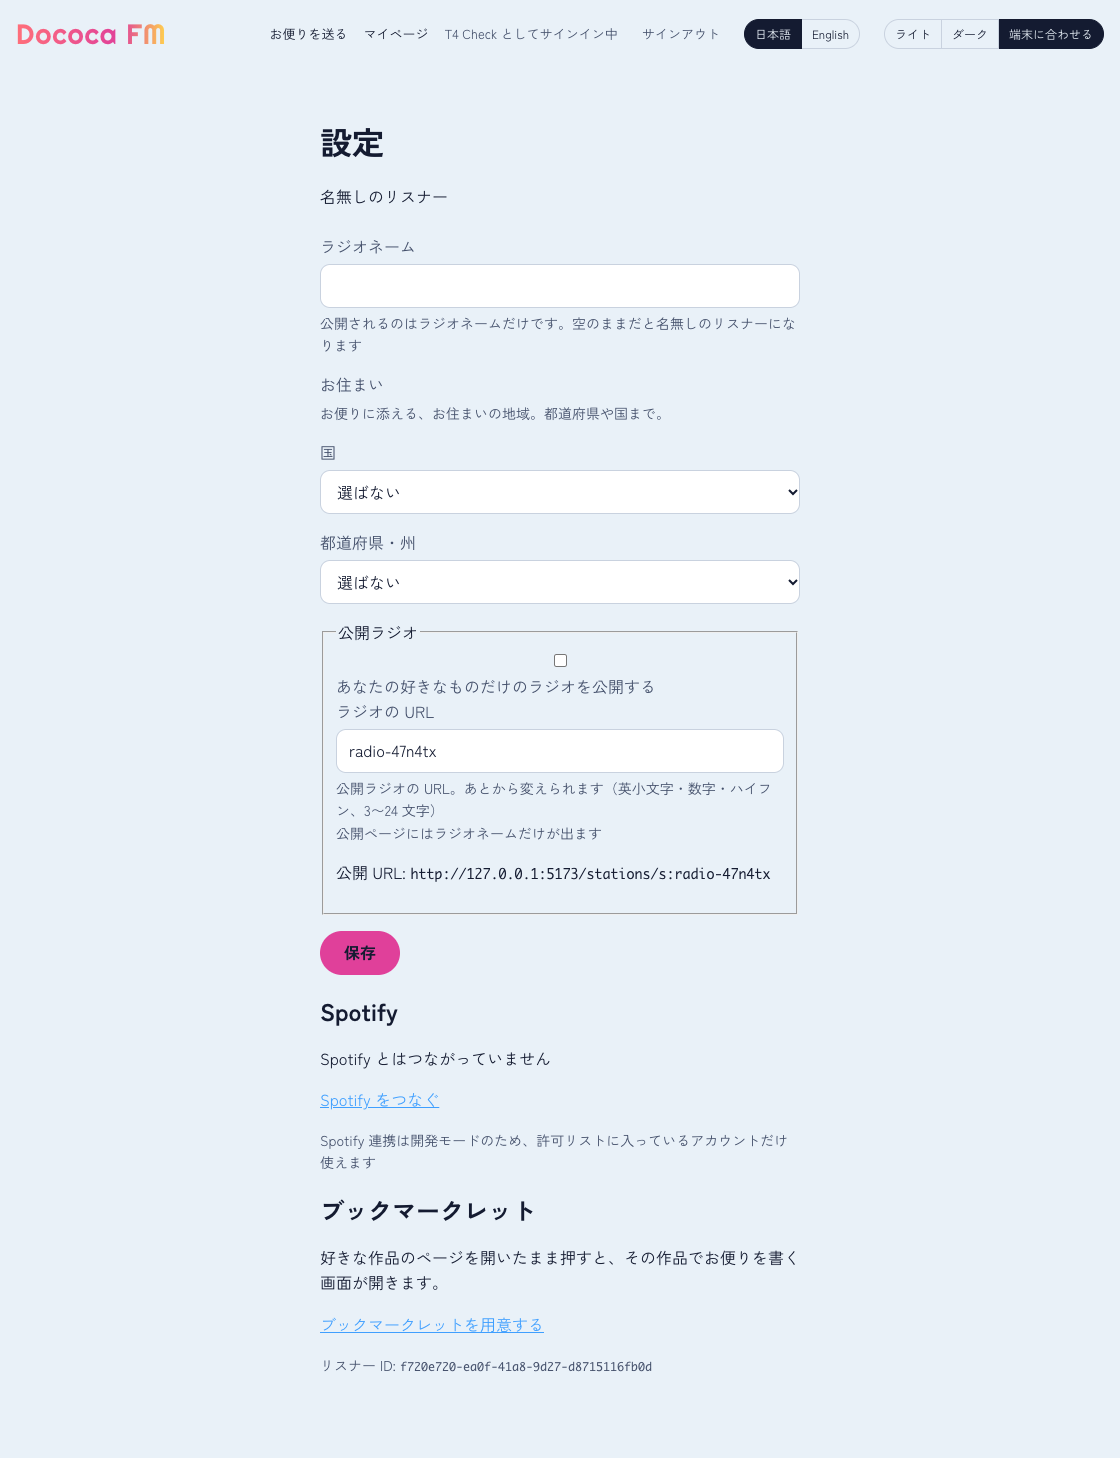
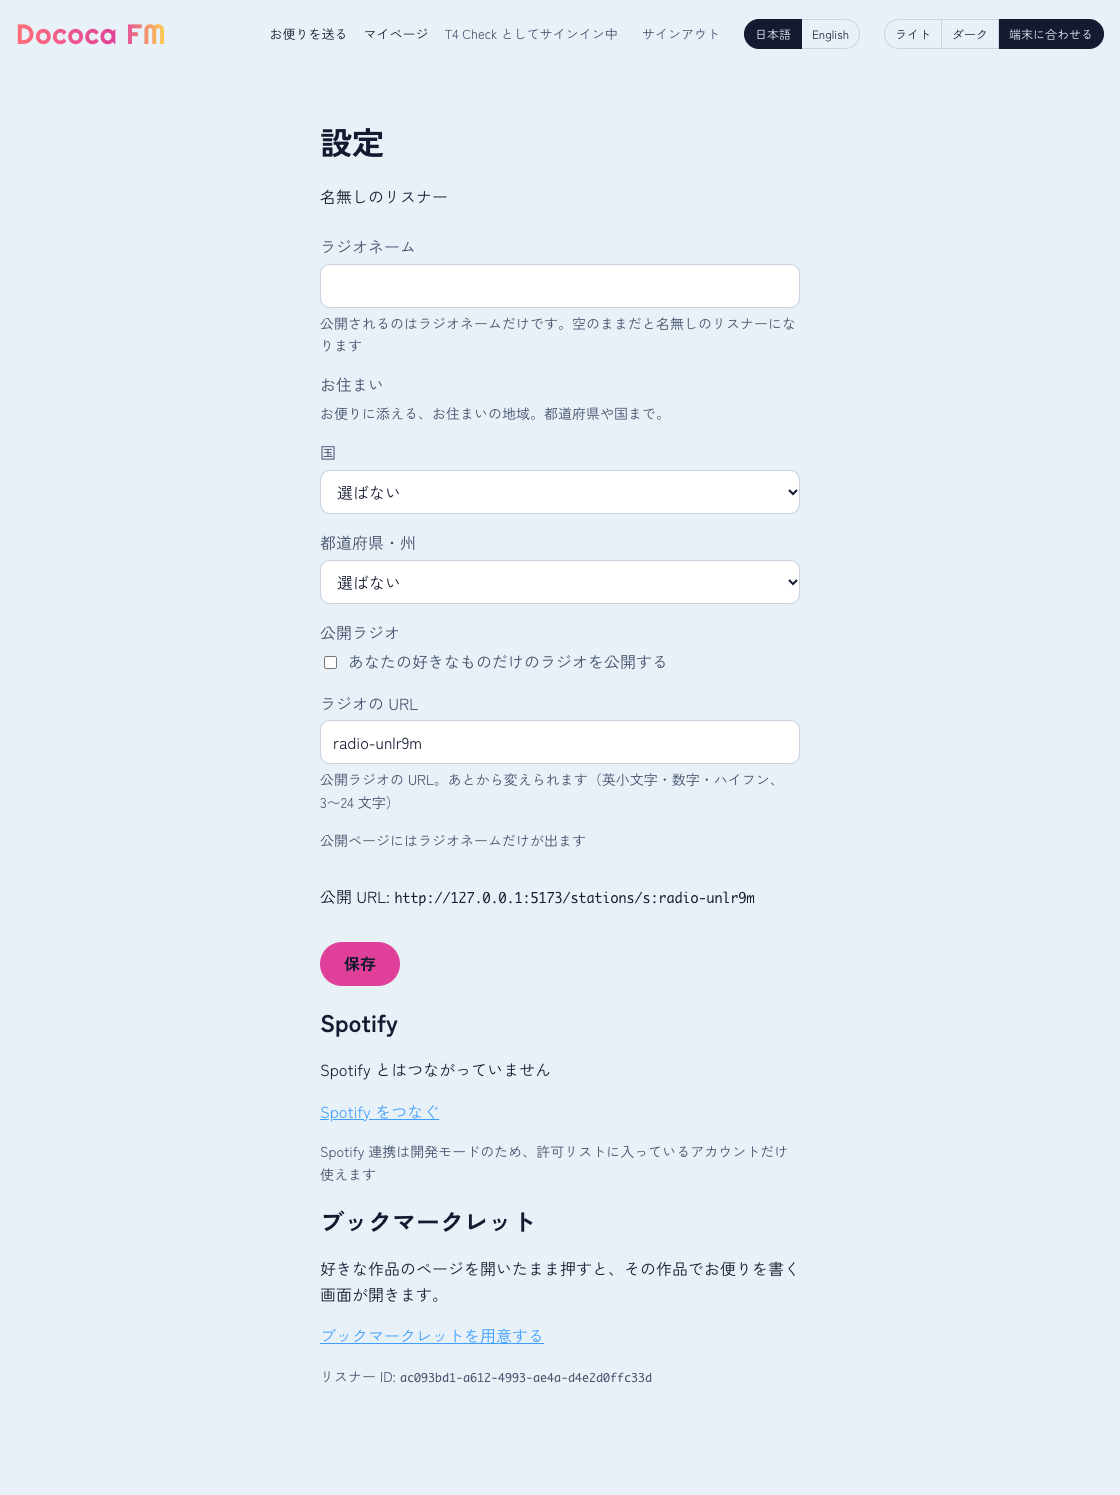
fix: settings survive a slug failure and fit the phone

diff --git a/test/worker/routes/settings.test.ts b/test/worker/routes/settings.test.ts
@@ -1,6 +1,7 @@
 import { SELF } from "cloudflare:test";
 import { env } from "cloudflare:workers";
-import { beforeEach, describe, expect, it } from "vitest";
+import { beforeEach, describe, expect, it, vi } from "vitest";
+import * as listeners from "../../../src/worker/db/listeners";
 import { resetDb } from "../../helpers/db";
 import { get, signedInSession } from "./helpers";
 
@@ -97,7 +98,7 @@ describe("settings", () => {
     const cookie = cookieOf(await SELF.fetch(`${BASE}/settings`, { headers: { "accept-language": "ja" } }));
     const html = await (await SELF.fetch(`${BASE}/settings`, { headers: { cookie } })).text();
     expect(html).not.toMatch(/<select[^>]*name="lang"/);
-    const post = await postForm("/settings", cookie, { radioName: "ヒロ", voice: "", lang: "en" });
+    const post = await postForm("/settings", cookie, { radioName: "ヒロ", lang: "en" });
     expect(post.status).toBe(303);
     const row = await env.DB.prepare("SELECT lang FROM listeners").first<{ lang: string }>();
     expect(row?.lang).toBe("ja");
@@ -105,7 +106,7 @@ describe("settings", () => {
 
   it("saves radio name and place, then shows them", async () => {
     const cookie = cookieOf(await SELF.fetch(`${BASE}/settings`));
-    const post = await postForm("/settings", cookie, { radioName: "ヒロ", placeCountry: "JP", placeRegion: "32", voice: "", dial: "0.8" });
+    const post = await postForm("/settings", cookie, { radioName: "ヒロ", placeCountry: "JP", placeRegion: "32", dial: "0.8" });
     expect(post.status).toBe(303);
     expect(post.headers.get("location")).toBe("/settings?saved=1");
 
@@ -120,23 +121,23 @@ describe("settings", () => {
 
   it("fills the place from a country alone and from a US state", async () => {
     const cookie = cookieOf(await SELF.fetch(`${BASE}/settings`));
-    await postForm("/settings", cookie, { radioName: "", placeCountry: "PT", placeRegion: "", voice: "", dial: "0.5" });
+    await postForm("/settings", cookie, { radioName: "", placeCountry: "PT", placeRegion: "", dial: "0.5" });
     expect(await env.DB.prepare("SELECT place, place_region FROM listeners").first()).toEqual({ place: "ポルトガル", place_region: null });
-    await postForm("/settings", cookie, { radioName: "", placeCountry: "US", placeRegion: "CA", voice: "", dial: "0.5" });
+    await postForm("/settings", cookie, { radioName: "", placeCountry: "US", placeRegion: "CA", dial: "0.5" });
     expect((await env.DB.prepare("SELECT place FROM listeners").first<{ place: string }>())!.place).toBe("カリフォルニア州、アメリカ");
   });
 
   it("clears the place when the country is set back to none", async () => {
     const cookie = cookieOf(await SELF.fetch(`${BASE}/settings`));
-    await postForm("/settings", cookie, { radioName: "", placeCountry: "JP", placeRegion: "32", voice: "", dial: "0.5" });
-    await postForm("/settings", cookie, { radioName: "", placeCountry: "", placeRegion: "", voice: "", dial: "0.5" });
+    await postForm("/settings", cookie, { radioName: "", placeCountry: "JP", placeRegion: "32", dial: "0.5" });
+    await postForm("/settings", cookie, { radioName: "", placeCountry: "", placeRegion: "", dial: "0.5" });
     expect(await env.DB.prepare("SELECT place, place_country, place_region FROM listeners").first()).toEqual({ place: "", place_country: null, place_region: null });
   });
 
   it("keeps an old free-text place while no country has been chosen", async () => {
     const cookie = cookieOf(await SELF.fetch(`${BASE}/settings`));
     await env.DB.prepare("UPDATE listeners SET place = '大船渡'").run();
-    await postForm("/settings", cookie, { radioName: "ヒロ", placeCountry: "", placeRegion: "", voice: "", dial: "0.5" });
+    await postForm("/settings", cookie, { radioName: "ヒロ", placeCountry: "", placeRegion: "", dial: "0.5" });
     expect((await env.DB.prepare("SELECT place FROM listeners").first<{ place: string }>())!.place).toBe("大船渡");
   });
 
@@ -148,7 +149,7 @@ describe("settings", () => {
     ["an unknown country", { placeCountry: "ZZ", placeRegion: "" }],
   ])("rejects %s with 422 and saves nothing", async (_name, place) => {
     const cookie = cookieOf(await SELF.fetch(`${BASE}/settings`));
-    const res = await postForm("/settings", cookie, { radioName: "ヒロ", ...place, voice: "", dial: "0.5" });
+    const res = await postForm("/settings", cookie, { radioName: "ヒロ", ...place, dial: "0.5" });
     expect(res.status).toBe(422);
     expect(await res.text()).toContain("入力を確認してください");
     expect(await env.DB.prepare("SELECT radio_name, place_country FROM listeners").first()).toEqual({ radio_name: "", place_country: null });
@@ -159,7 +160,7 @@ describe("settings", () => {
     const html = await (await SELF.fetch(`${BASE}/settings`, { headers: { cookie } })).text();
     expect(html).not.toContain('name="dial"');
     expect(html).not.toContain("セレンディピティ");
-    const res = await postForm("/settings", cookie, { radioName: "ヒロ", voice: "", dial: "0.9" });
+    const res = await postForm("/settings", cookie, { radioName: "ヒロ", dial: "0.9" });
     expect(res.status).toBe(303);
     const row = await env.DB.prepare("SELECT radio_name, dial FROM listeners").first<{ radio_name: string; dial: number }>();
     expect(row).toEqual({ radio_name: "ヒロ", dial: 0.3 });
@@ -168,7 +169,7 @@ describe("settings", () => {
 
   it("rejects a radio name over 20 characters", async () => {
     const cookie = cookieOf(await SELF.fetch(`${BASE}/settings`));
-    const res = await postForm("/settings", cookie, { radioName: "あ".repeat(21), voice: "", dial: "0.5" });
+    const res = await postForm("/settings", cookie, { radioName: "あ".repeat(21), dial: "0.5" });
     expect(res.status).toBe(422);
   });
 
@@ -178,7 +179,7 @@ describe("settings", () => {
     ["radioName", "example.com"],
   ])("rejects a %s that is contact details (%s) with 422", async (field, value) => {
     const cookie = cookieOf(await SELF.fetch(`${BASE}/settings`));
-    const res = await postForm("/settings", cookie, { radioName: "ヒロ", voice: "", dial: "0.5", [field]: value });
+    const res = await postForm("/settings", cookie, { radioName: "ヒロ", dial: "0.5", [field]: value });
     expect(res.status).toBe(422);
     expect(await res.text()).toContain("入力を確認してください");
     const row = await env.DB.prepare("SELECT radio_name, place FROM listeners").first<{ radio_name: string; place: string }>();
@@ -187,13 +188,13 @@ describe("settings", () => {
 
   it("accepts an ordinary radio name", async () => {
     const cookie = cookieOf(await SELF.fetch(`${BASE}/settings`));
-    const res = await postForm("/settings", cookie, { radioName: "3人家族", voice: "", dial: "0.5" });
+    const res = await postForm("/settings", cookie, { radioName: "3人家族", dial: "0.5" });
     expect(res.status).toBe(303);
   });
 
   it("escapes user text in the form", async () => {
     const cookie = cookieOf(await SELF.fetch(`${BASE}/settings`));
-    await postForm("/settings", cookie, { radioName: '<b>"x"</b>', voice: "", dial: "0.5" });
+    await postForm("/settings", cookie, { radioName: '<b>"x"</b>', dial: "0.5" });
     const html = await (await SELF.fetch(`${BASE}/settings`, { headers: { cookie } })).text();
     expect(html).not.toContain("<b>");
     expect(html).toContain("&lt;b&gt;");
@@ -221,7 +222,7 @@ describe("public station settings", () => {
 
   it("saves a chosen slug (trimmed, lower-cased) and makes the station public", async () => {
     const cookie = await signedInSession("Hiro");
-    const res = await postForm("/settings", cookie, { radioName: "", voice: "", dial: "0.5", stationPublic: "1", stationSlug: "  My-Radio " });
+    const res = await postForm("/settings", cookie, { radioName: "", dial: "0.5", stationPublic: "1", stationSlug: "  My-Radio " });
     expect(res.status).toBe(303);
     expect(await rowOf("Hiro")).toEqual({ pub: 1, slug: "my-radio" });
     const html = await (await get("/settings", cookie)).text();
@@ -230,7 +231,7 @@ describe("public station settings", () => {
 
   it("generates radio-xxxxxx when public is turned on without a slug, never from the google name", async () => {
     const cookie = await signedInSession("Hiro Sasaki");
-    await postForm("/settings", cookie, { radioName: "ちくわ", voice: "", dial: "0.5", stationPublic: "1" });
+    await postForm("/settings", cookie, { radioName: "ちくわ", dial: "0.5", stationPublic: "1" });
     const row = await rowOf("Hiro Sasaki");
     expect(row?.pub).toBe(1);
     expect(row?.slug).toMatch(/^radio-[0-9a-z]{6}$/);
@@ -248,6 +249,20 @@ describe("public station settings", () => {
     // Opening it again keeps the same address.
     await get("/settings", cookie);
     expect((await rowOf("Hiro"))?.slug).toBe(slug);
+  });
+
+  it("still renders and saves when the address cannot be assigned", async () => {
+    const spy = vi.spyOn(listeners, "setStationSlugIfNone").mockRejectedValue(new Error("D1 unavailable"));
+    try {
+      const cookie = await signedInSession("Hiro");
+      const res = await get("/settings", cookie);
+      expect(res.status).toBe(200);
+      expect(await res.text()).not.toContain("/stations/s:");
+      expect((await postForm("/settings", cookie, { radioName: "ちくわ", dial: "0.5" })).status).toBe(303);
+      expect(await env.DB.prepare("SELECT radio_name AS n FROM listeners WHERE display_name = 'Hiro'").first()).toEqual({ n: "ちくわ" });
+    } finally {
+      spy.mockRestore();
+    }
   });
 
   it("does not assign an address to an anonymous listener", async () => {
@@ -271,14 +286,14 @@ describe("public station settings", () => {
 
   it("keeps the slug when public is turned off, so the URL stays stable", async () => {
     const cookie = await signedInSession("Hiro");
-    await postForm("/settings", cookie, { radioName: "", voice: "", dial: "0.5", stationPublic: "1", stationSlug: "my-radio" });
-    await postForm("/settings", cookie, { radioName: "", voice: "", dial: "0.5" });
+    await postForm("/settings", cookie, { radioName: "", dial: "0.5", stationPublic: "1", stationSlug: "my-radio" });
+    await postForm("/settings", cookie, { radioName: "", dial: "0.5" });
     expect(await rowOf("Hiro")).toEqual({ pub: 0, slug: "my-radio" });
   });
 
   it("422s with the taken message when another listener has the chosen slug", async () => {
-    await postForm("/settings", await signedInSession("Hiro"), { radioName: "", voice: "", dial: "0.5", stationPublic: "1", stationSlug: "my-radio" });
-    const res = await postForm("/settings", await signedInSession("Other"), { radioName: "", voice: "", dial: "0.5", stationPublic: "1", stationSlug: "my-radio" });
+    await postForm("/settings", await signedInSession("Hiro"), { radioName: "", dial: "0.5", stationPublic: "1", stationSlug: "my-radio" });
+    const res = await postForm("/settings", await signedInSession("Other"), { radioName: "", dial: "0.5", stationPublic: "1", stationSlug: "my-radio" });
     expect(res.status).toBe(422);
     expect(await res.text()).toContain("その URL は使われています");
     expect(await rowOf("Other")).toEqual({ pub: 0, slug: null });
@@ -287,13 +302,13 @@ describe("public station settings", () => {
   it("422s for a slug that is too short or has bad characters", async () => {
     const cookie = await signedInSession("Hiro");
     for (const bad of ["ab", "has space", "UPPER_x"]) {
-      expect((await postForm("/settings", cookie, { radioName: "", voice: "", dial: "0.5", stationSlug: bad })).status).toBe(422);
+      expect((await postForm("/settings", cookie, { radioName: "", dial: "0.5", stationSlug: bad })).status).toBe(422);
     }
   });
 
   it("ignores the station fields for an anonymous listener but still saves the rest", async () => {
     const cookie = await newAnon();
-    const res = await postForm("/settings", cookie, { radioName: "Tama", voice: "", dial: "0.5", stationPublic: "1", stationSlug: "sneaky" });
+    const res = await postForm("/settings", cookie, { radioName: "Tama", dial: "0.5", stationPublic: "1", stationSlug: "sneaky" });
     expect(res.status).toBe(303);
     const row = await env.DB.prepare("SELECT radio_name AS n, station_public AS pub, station_slug AS slug FROM listeners WHERE radio_name = 'Tama'").first();
     expect(row).toEqual({ n: "Tama", pub: 0, slug: null });

diff --git a/src/worker/routes/settings.tsx b/src/worker/routes/settings.tsx
@@ -9,7 +9,7 @@ import { isValidRegion, placeLabel } from "../geo/place-label";
 import { looksLikeContact } from "../program/pii-patterns";
 import type { Env } from "../env";
 import { tFor } from "../i18n/t";
-import { SLUG, ensureStationSlug, stationUrl } from "../program/station";
+import { SLUG, ensureStationSlug, isSlugTaken, stationUrl } from "../program/station";
 import { currentPath } from "../auth/require-signin";
 import type { Listener } from "../types";
 
@@ -135,14 +135,13 @@ const stationViewOf = (env: Env, listener: Listener, over: Partial<StationView> 
     ? undefined
     : { isPublic: listener.stationPublic, slug: listener.stationSlug ?? "", url: listener.stationSlug ? stationUrl(env, listener.stationSlug) : null, ...over };
 
-const isUniqueViolation = (e: unknown) => String((e as Error)?.message ?? e).includes("station_slug");
-
 export const settings = new Hono<{ Bindings: Env; Variables: Variables }>();
 
 settings.get("/settings", async (c) => {
   const signedIn = c.get("listener");
   // Every signed-in listener has a public address; one signed in before addresses were assigned gets it here.
-  const listener = signedIn.googleSub !== null && !signedIn.stationSlug ? { ...signedIn, stationSlug: await ensureStationSlug(c.env.DB, signedIn) } : signedIn;
+  // If that fails the page still renders, without an address; the next visit tries again.
+  const listener = signedIn.googleSub !== null && !signedIn.stationSlug ? { ...signedIn, stationSlug: await ensureStationSlug(c.env.DB, signedIn).catch(() => null) } : signedIn;
   return c.html(
     <SettingsPage values={listener} listener={listener} path={currentPath(c)} listenerId={listener.id} spotifyConnected={listener.spotifyRefreshToken !== null} spotifyFailed={c.req.query("spotify") === "failed"} signinFailed={c.req.query("signin") === "failed"} saved={c.req.query("saved") === "1"} station={stationViewOf(c.env, listener)} />,
   );
@@ -177,13 +176,14 @@ settings.post(
     try {
       await updateListener(c.env.DB, listener.id, { ...rest, stationPublic: isPublic, ...(chosen ? { stationSlug: chosen } : {}) });
     } catch (e) {
-      if (!isUniqueViolation(e)) throw e;
+      if (!isSlugTaken(e)) throw e;
       // The slug the listener typed is held by someone else; it is theirs to change.
       const shown = { ...listener, ...rest, stationPublic: isPublic };
       return c.html(<SettingsPage values={shown} listener={listener} path={currentPath(c)} listenerId={listener.id} spotifyConnected={listener.spotifyRefreshToken !== null} station={stationViewOf(c.env, listener, { isPublic, slug: chosen ?? "", url: null, taken: true })} />, 422);
     }
     // A listener signed in before addresses were assigned still gets one on their first save.
-    await ensureStationSlug(c.env.DB, listener);
+    // The profile is already saved, so a failure here must not turn the save into an error.
+    await ensureStationSlug(c.env.DB, listener).catch(() => {});
     return c.redirect("/settings?saved=1", 303);
   },
 );

diff --git a/src/worker/program/station.ts b/src/worker/program/station.ts
@@ -47,6 +47,9 @@ export function slugSuffix(length = 4): string {
   return out;
 }
 
+/** Whether a write failed because another listener already holds the slug (the UNIQUE index on `station_slug`). */
+export const isSlugTaken = (e: unknown): boolean => String((e as Error)?.message ?? e).includes("station_slug");
+
 const MAX_SLUG_ATTEMPTS = 3;
 
 /**
@@ -60,7 +63,7 @@ export async function ensureStationSlug(db: D1Database, listener: Listener, suff
       await setStationSlugIfNone(db, listener.id, `radio-${suffix(6)}`);
       break;
     } catch (e) {
-      if (!String((e as Error)?.message ?? e).includes("station_slug") || attempt >= MAX_SLUG_ATTEMPTS) throw e;
+      if (!isSlugTaken(e) || attempt >= MAX_SLUG_ATTEMPTS) throw e;
     }
   }
   // Read back: a concurrent request may have assigned one first.

diff --git a/public/app.css b/public/app.css
@@ -863,7 +863,8 @@ button.pill {
   margin-top: var(--sp-6);
 }
 
-.settings-place {
+.settings-place,
+.settings-station {
   display: grid;
   gap: var(--sp-4);
   min-width: 0;
@@ -872,7 +873,8 @@ button.pill {
   border: 0;
 }
 
-.settings-place legend {
+.settings-place legend,
+.settings-station legend {
   margin-bottom: var(--sp-1);
   padding: 0;
   color: var(--ink-2);
@@ -881,7 +883,19 @@ button.pill {
 .settings label {
   display: grid;
   gap: var(--sp-1);
+  min-width: 0;
   color: var(--ink-2);
+}
+
+.settings label.check {
+  display: flex;
+  align-items: center;
+  gap: var(--sp-2);
+}
+
+.settings select {
+  width: 100%;
+  min-width: 0;
 }
 
 .settings input[type="range"],
